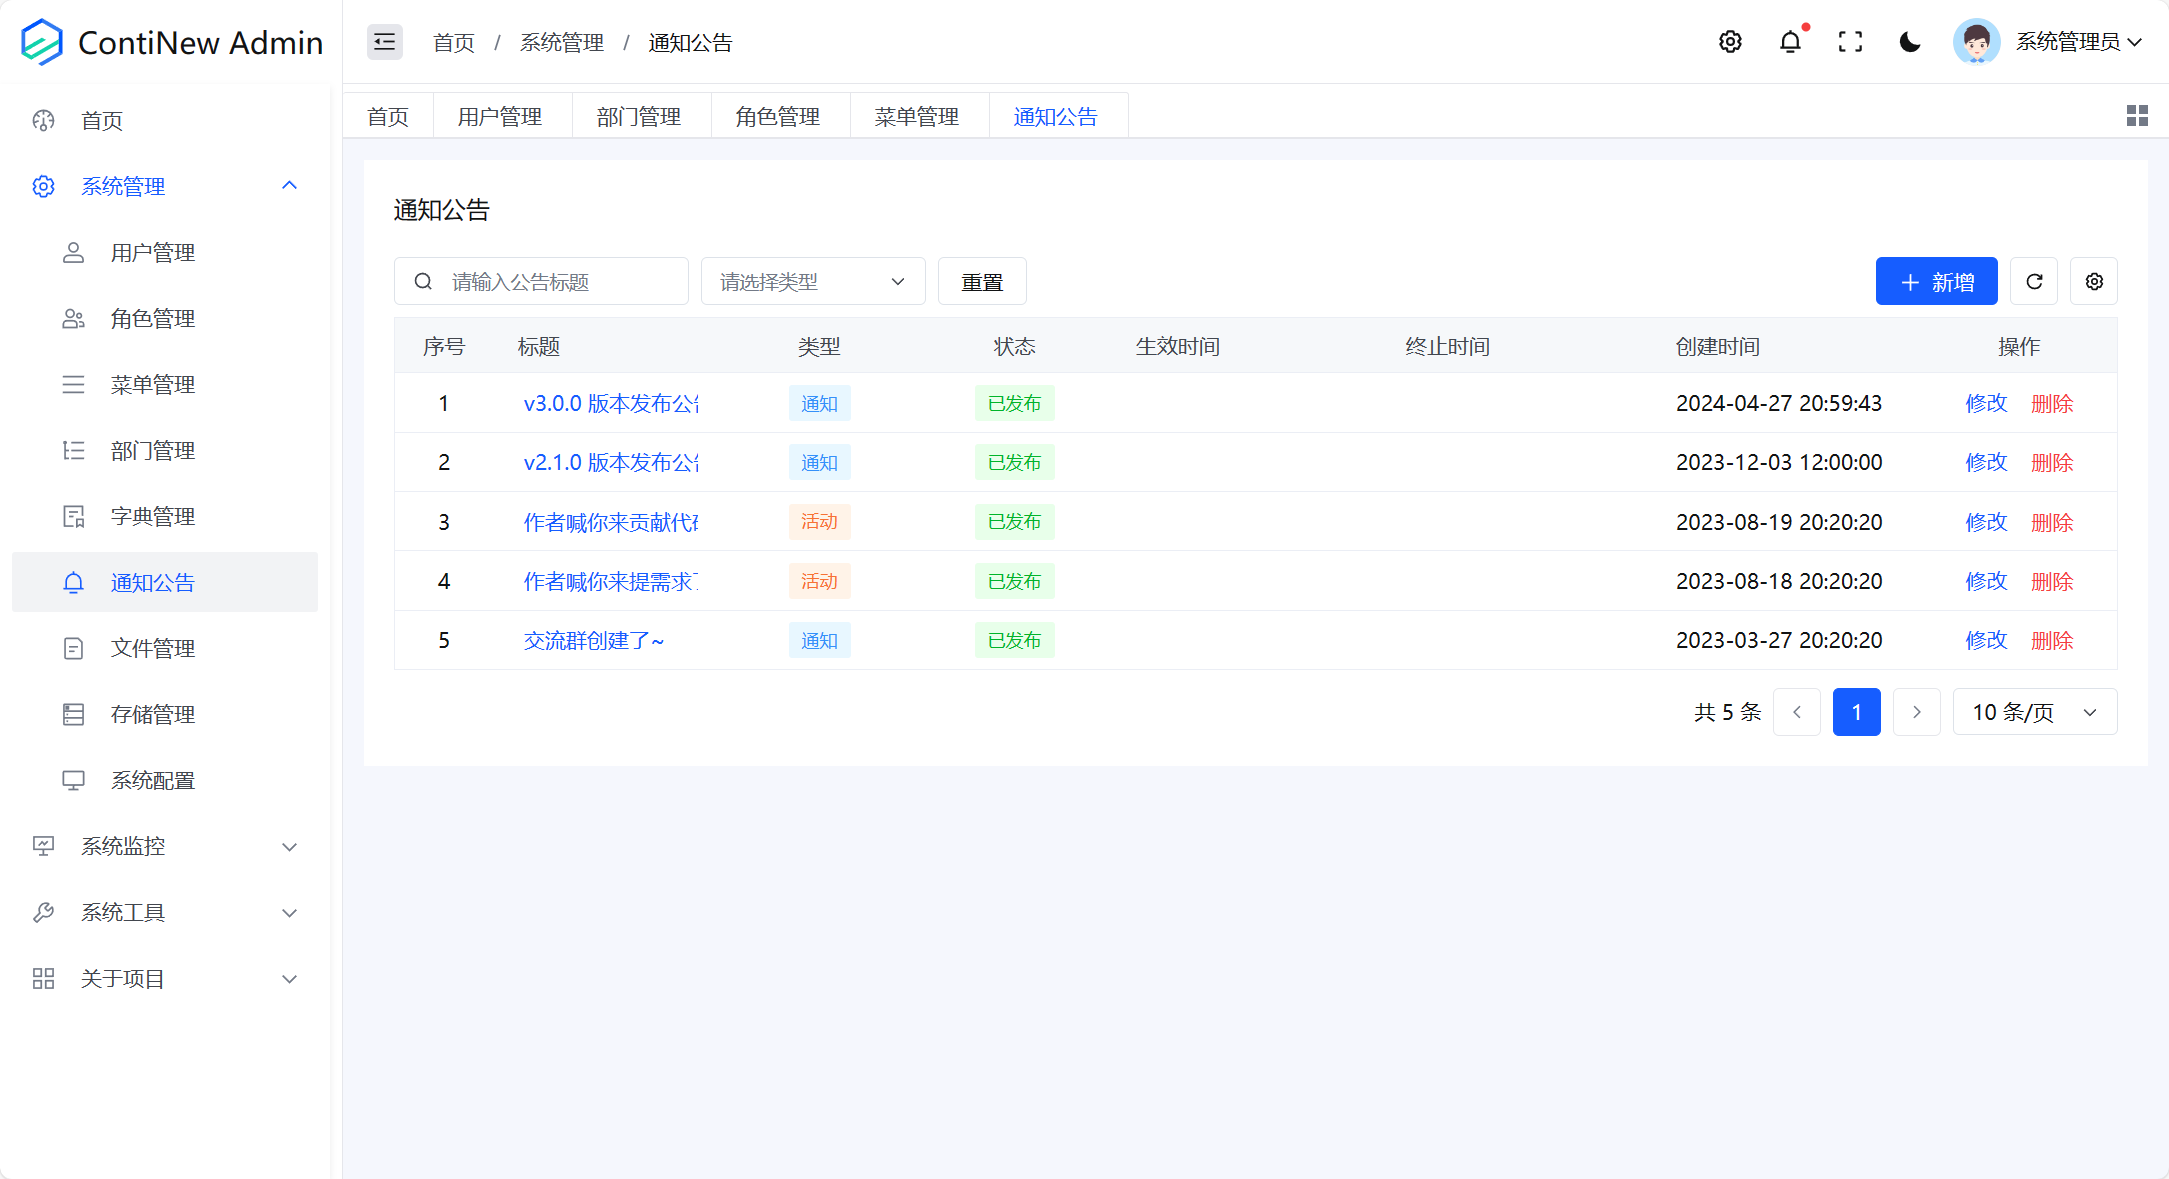
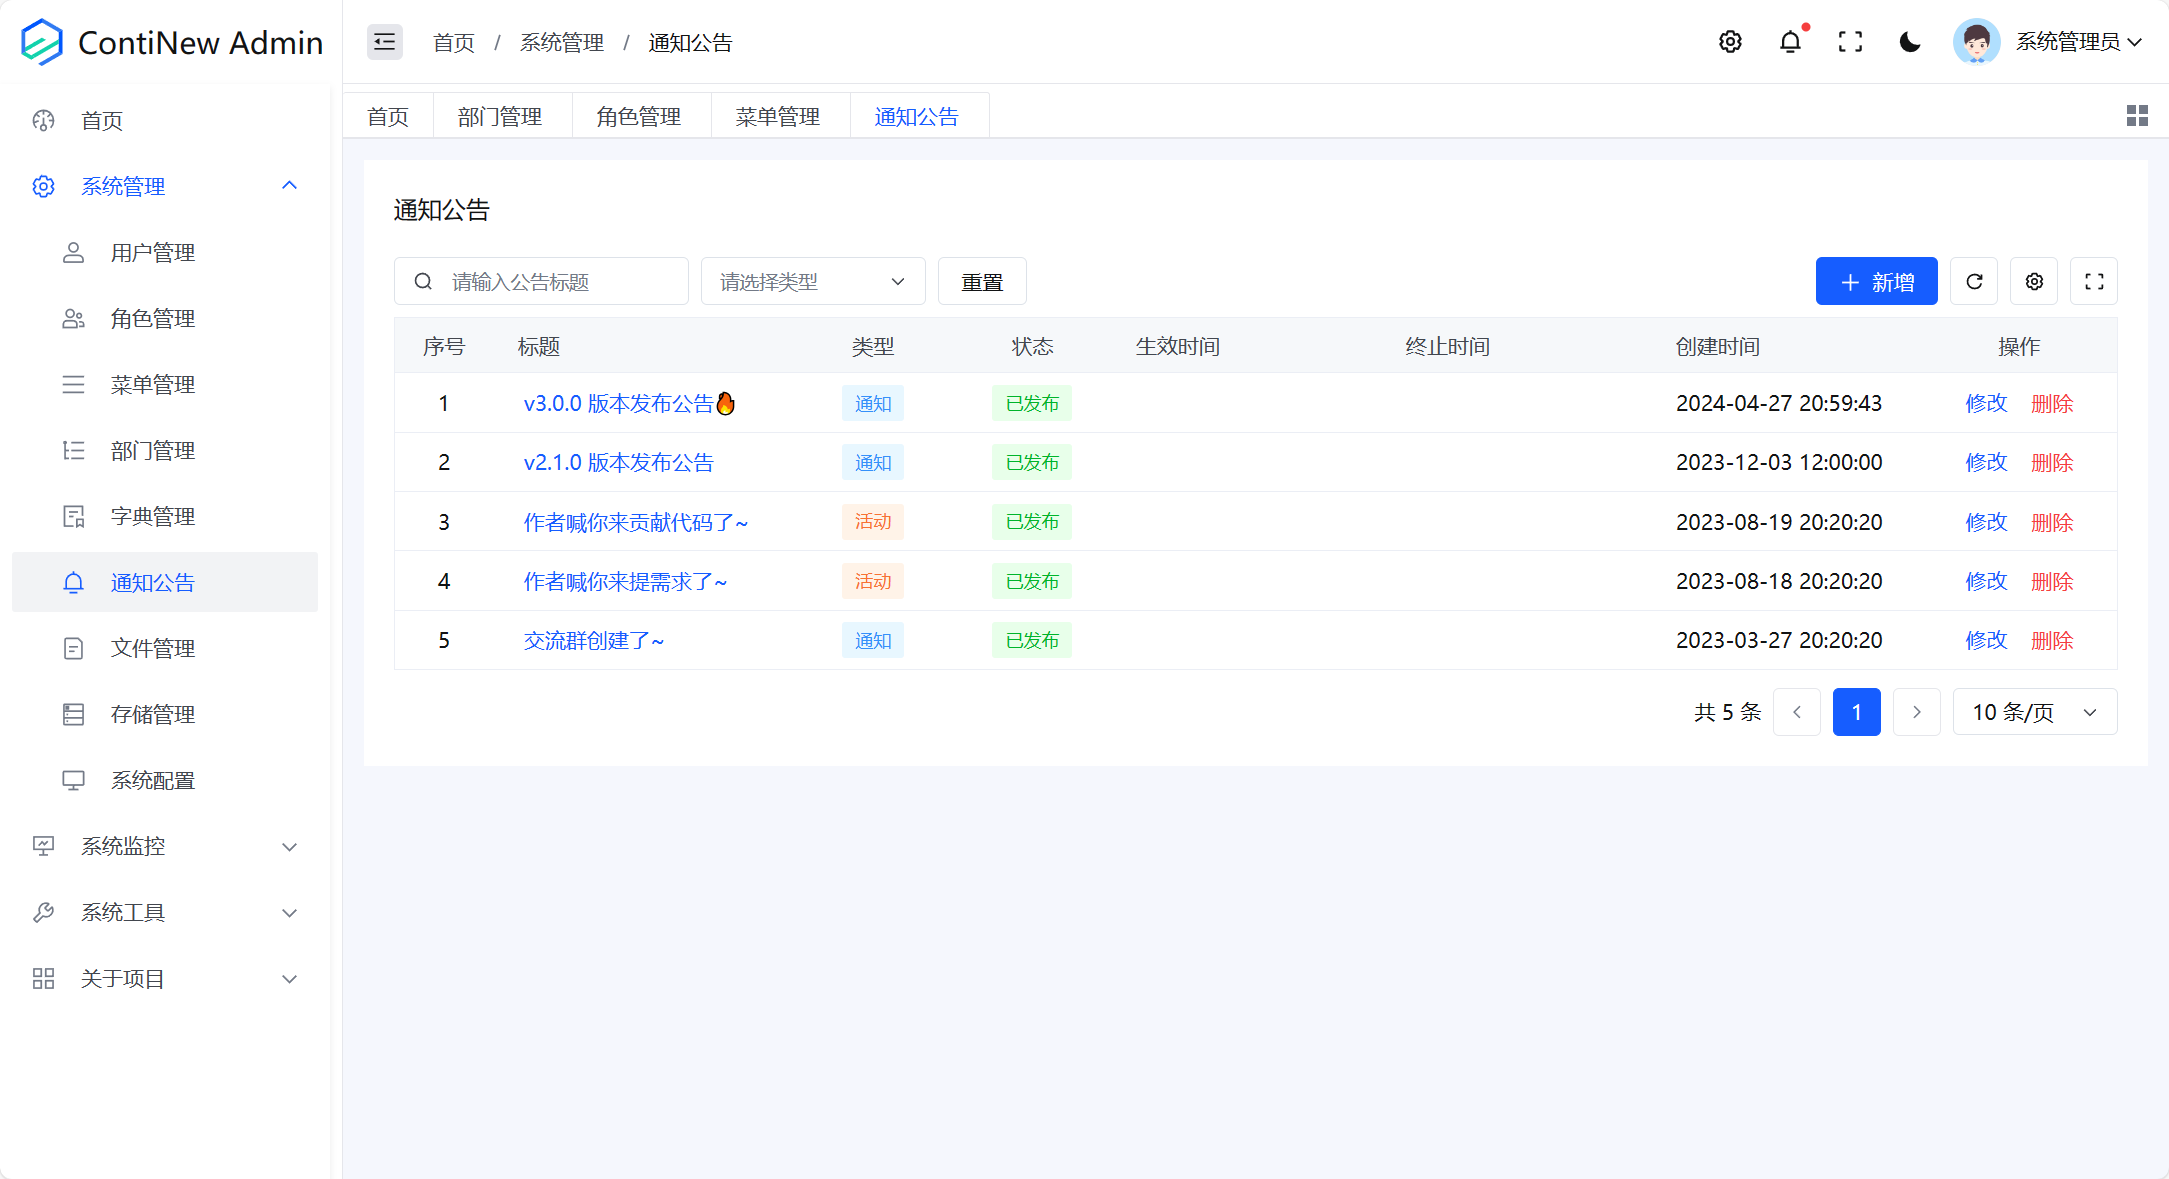
release: v3.0.1

diff --git a/CHANGELOG.md b/CHANGELOG.md
@@ -1,3 +1,31 @@
+## [v3.0.1](https://github.com/Charles7c/continew-admin-ui/compare/v3.0.0...v3.0.1) (2024-05-03)
+
+### ✨ 新特性
+
+* 新增表格全屏、尺寸工具 ([b8a84a3](https://github.com/Charles7c/continew-admin-ui/commit/b8a84a3a0890d4f6d0e39ecbe50c4f645bd0f106))
+* 新增验证码超时显示效果，超时后显示已过期请刷新 (GitHub#14) ([f99c8f1](https://github.com/Charles7c/continew-admin-ui/commit/f99c8f1b5a521f987b2822352f976fb0b1dc93b3))
+* 文件管理增加资源统计，统计总存储量、各类型文件存储占用 (GitHub#15) ([c70d1ad](https://github.com/Charles7c/continew-admin-ui/commit/c70d1adbf922d28853bf4e6cf8cc4e14ad5b0ac7))
+
+### 💎 功能优化
+
+- 统一性别约束/统一上级部门为必填 ([5264cf2](https://github.com/Charles7c/continew-admin-ui/commit/5264cf226fa3acd1398d9309e6a97d4d45b64850))
+- 一级部门不能修改上级部门 ([b2a1658](https://github.com/Charles7c/continew-admin-ui/commit/b2a1658e3730078cf2fbeb3032c23c0922544594))
+- 优化根据选中部门查询用户的点击效果 ([ca25285](https://github.com/Charles7c/continew-admin-ui/commit/ca252852373840b000c1f65ab925d18335a71fcb)) ([99c37d7](https://github.com/Charles7c/continew-admin-ui/commit/99c37d7de4a245836f89c29cf4b638032efae31f))
+- 登录页面，H5 端排版更换 ([05ab89d](https://github.com/Charles7c/continew-admin-ui/commit/05ab89d03fe6401994698ad9ecdeb8540ec49553))
+- 优化 queryForm 的 Query 类型使用 ([5b71369](https://github.com/Charles7c/continew-admin-ui/commit/5b713692516db586f2d401a163192c62a963137a))
+
+
+### 🐛 问题修复
+
+- 修复 Markdown 样式加载错误，改为全局统一加载 (GitHub#9) ([64648d0](https://github.com/Charles7c/continew-admin-ui/commit/64648d0c1d897d6e426199e7924ede9dfb40e8b8))
+- 修复由于文件组件名称错误导致的侧边栏筛选功能失效 ([81dbea8](https://github.com/Charles7c/continew-admin-ui/commit/81dbea879377054e3646c2d07b51c3352501bbce))
+- 修复文件管理数据不刷新和批量操作选中问题 (GitHub#13) ([724f60e](https://github.com/Charles7c/continew-admin-ui/commit/724f60eaf6b076cfb165ca0b1028c461146495ad))
+- 修复文件重命名时不能回显原值的问题 ([3dfa97e](https://github.com/Charles7c/continew-admin-ui/commit/3dfa97e785acb42edd3798117f7e8eea326b4b64))
+- 修复修改公告时保存按钮点击无效的问题 ([c0a5c2d](https://github.com/Charles7c/continew-admin-ui/commit/c0a5c2dffe50905b8610fbd066b8eecd5a4cbe89))
+- 修复账号管理、安全设置路由处理错误 ([c0c5ba8](https://github.com/Charles7c/continew-admin-ui/commit/c0c5ba8efdab009e7e38ad9a8f68a655aba28718))
+- 修复首页卡片显示问题 ([39465dc](https://github.com/Charles7c/continew-admin-ui/commit/39465dcaa38c9d79c820583a1dd82978e5588dec))
+- 修复 H5 下登录页面错位显示 ([9d570a8](https://github.com/Charles7c/continew-admin-ui/commit/9d570a808ce1a15a1513eac0e9ec355d683febef))
+
 ## v3.0.0 (2024-04-27)
 
 ### ✨ 新特性

diff --git a/README.md b/README.md
@@ -4,7 +4,7 @@
 <img src="https://img.shields.io/badge/License-Apache--2.0-blue.svg" alt="License" />
 </a>
 <a href="https://github.com/Charles7c/continew-admin-ui" target="_blank">
-<img src="https://img.shields.io/badge/RELEASE-v3.0.0-%23ff3f59.svg" alt="Release" />
+<img src="https://img.shields.io/badge/RELEASE-v3.0.1-%23ff3f59.svg" alt="Release" />
 </a>
 <a href="https://github.com/Charles7c/continew-admin" target="_blank">
 <img src="https://img.shields.io/github/stars/Charles7c/continew-admin?style=social" alt="GitHub stars" />
@@ -90,7 +90,7 @@ ContiNew Admin（Continue New Admin）持续迭代优化的前后端分离中后
 ## 系统截图
 
 > [!TIP]
-> 受篇幅长度及功能更新频率影响，下方仅为系统 **部分** 功能于 **2024年4月27日** 进行的截图，更多新增功能及细节请登录演示环境或 clone 代码到本地启动查看。
+> 受篇幅长度及功能更新频率影响，下方仅为系统 **部分** 功能于 **2024年5月3日** 进行的截图，更多新增功能及细节请登录演示环境或 clone 代码到本地启动查看。
 
 <table border="1" cellpadding="1" cellspacing="1" style="width: 500px">
     <tbody>
